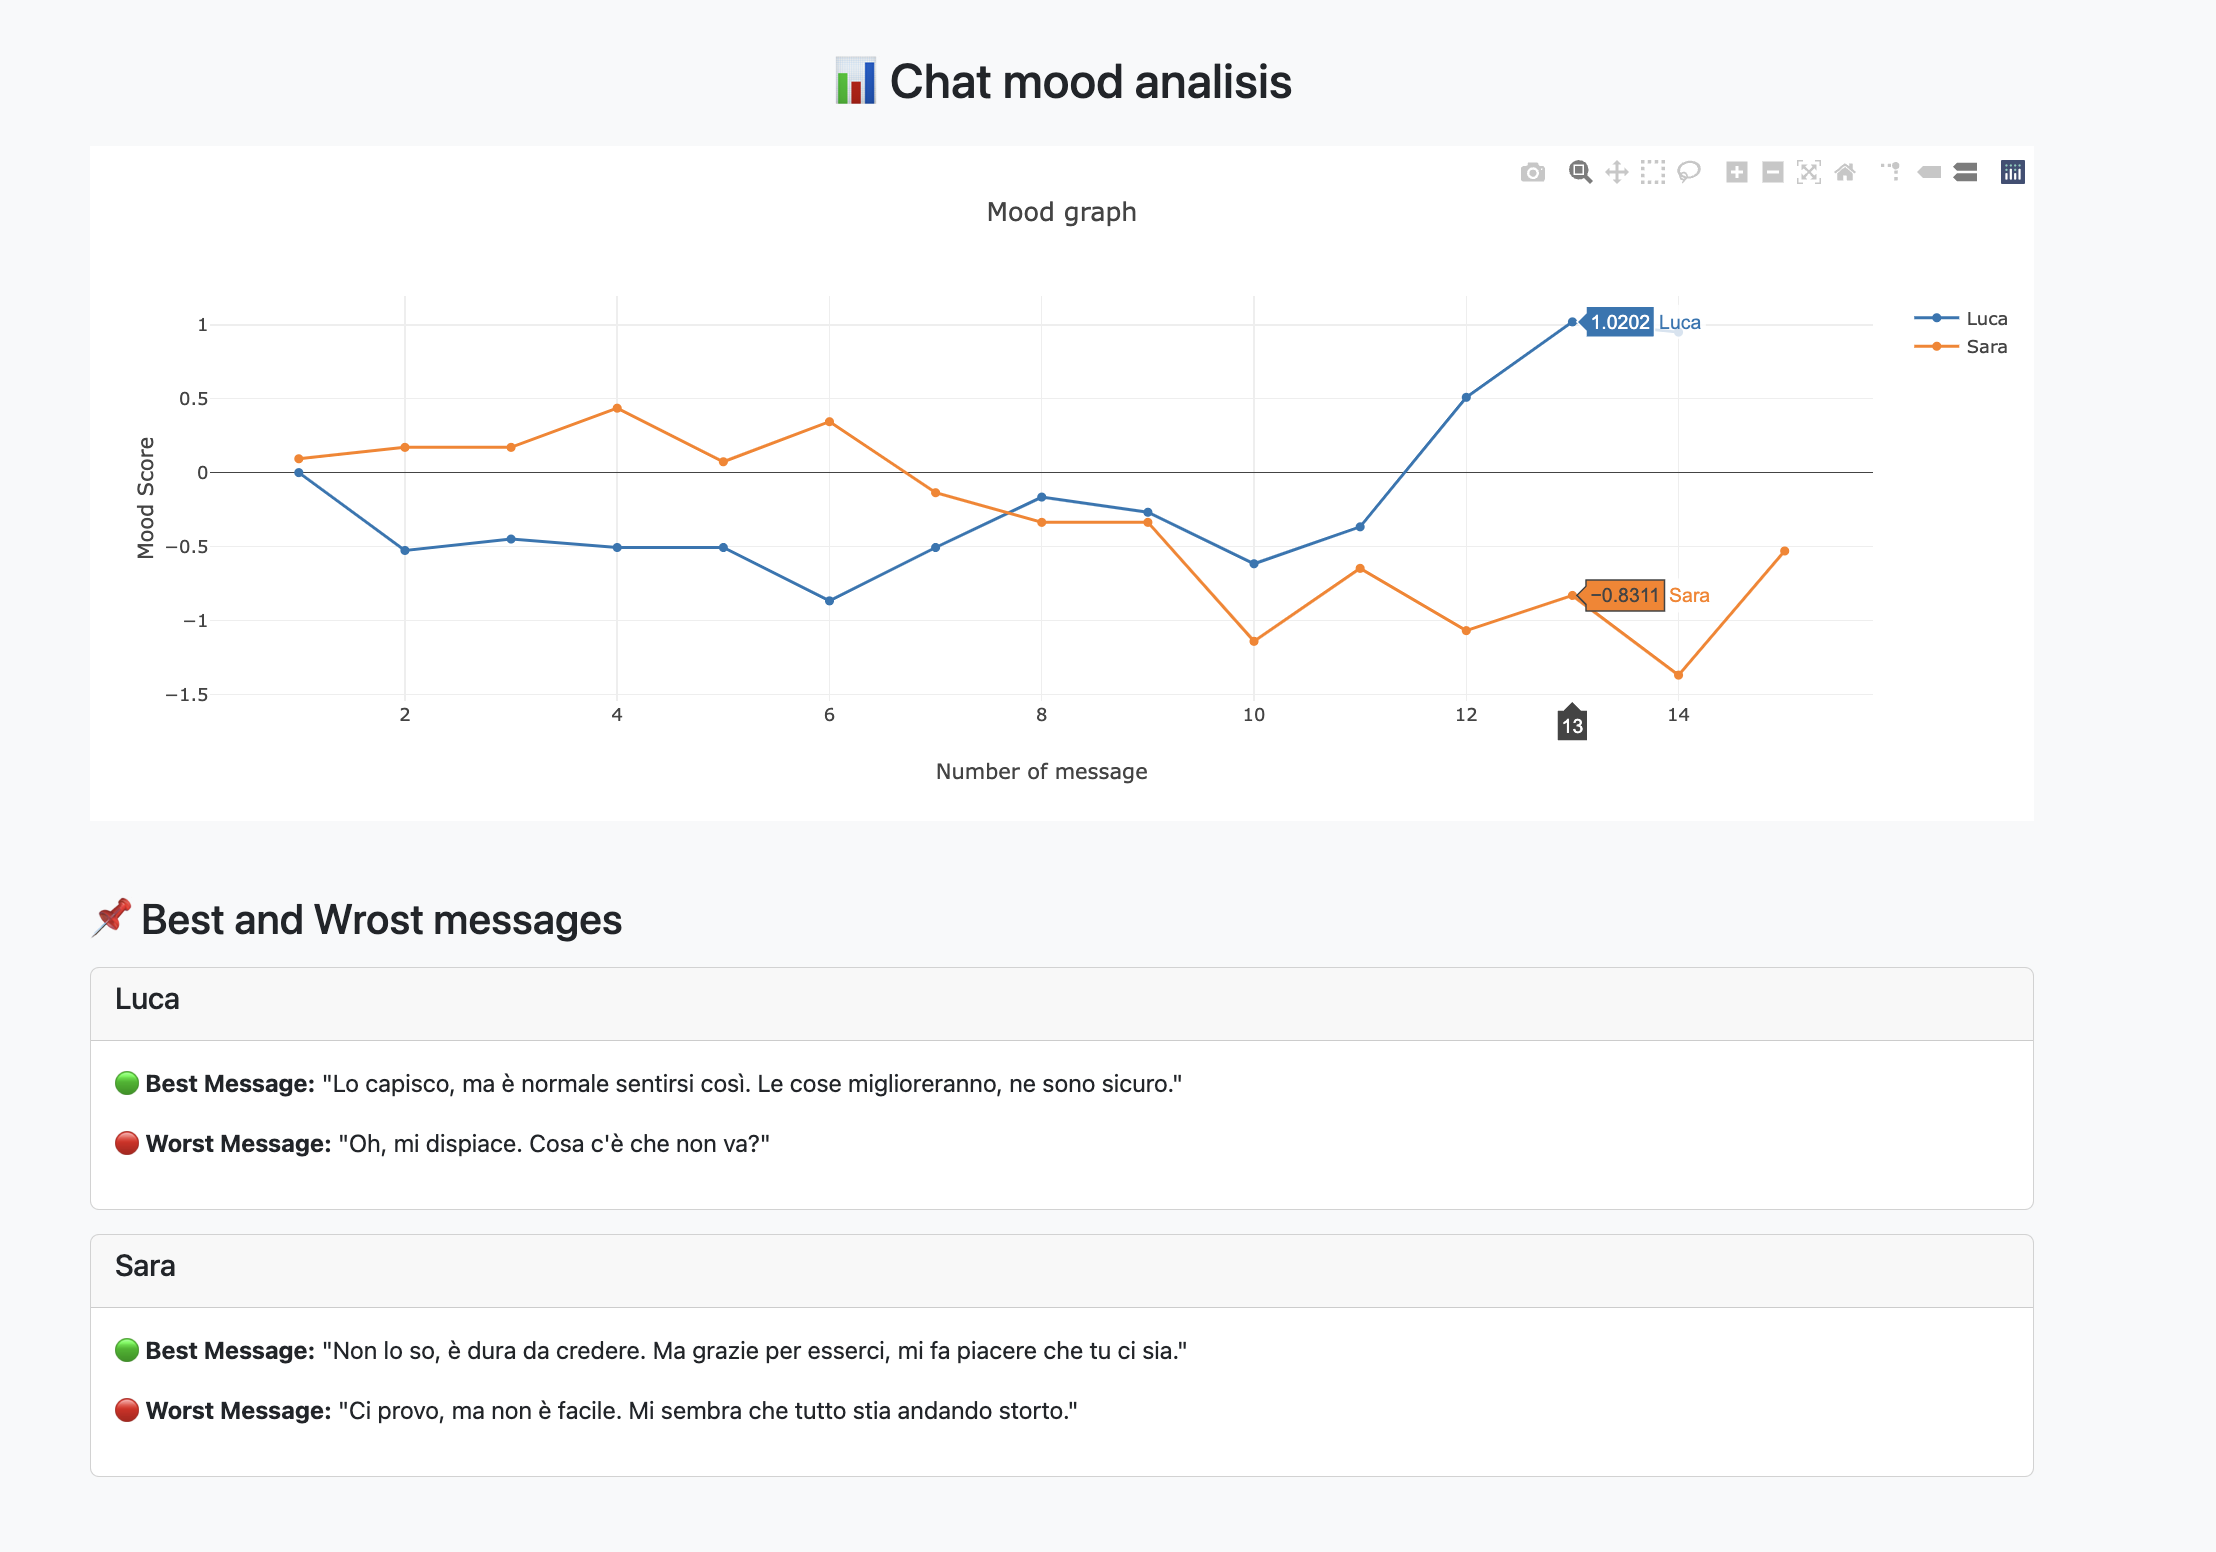
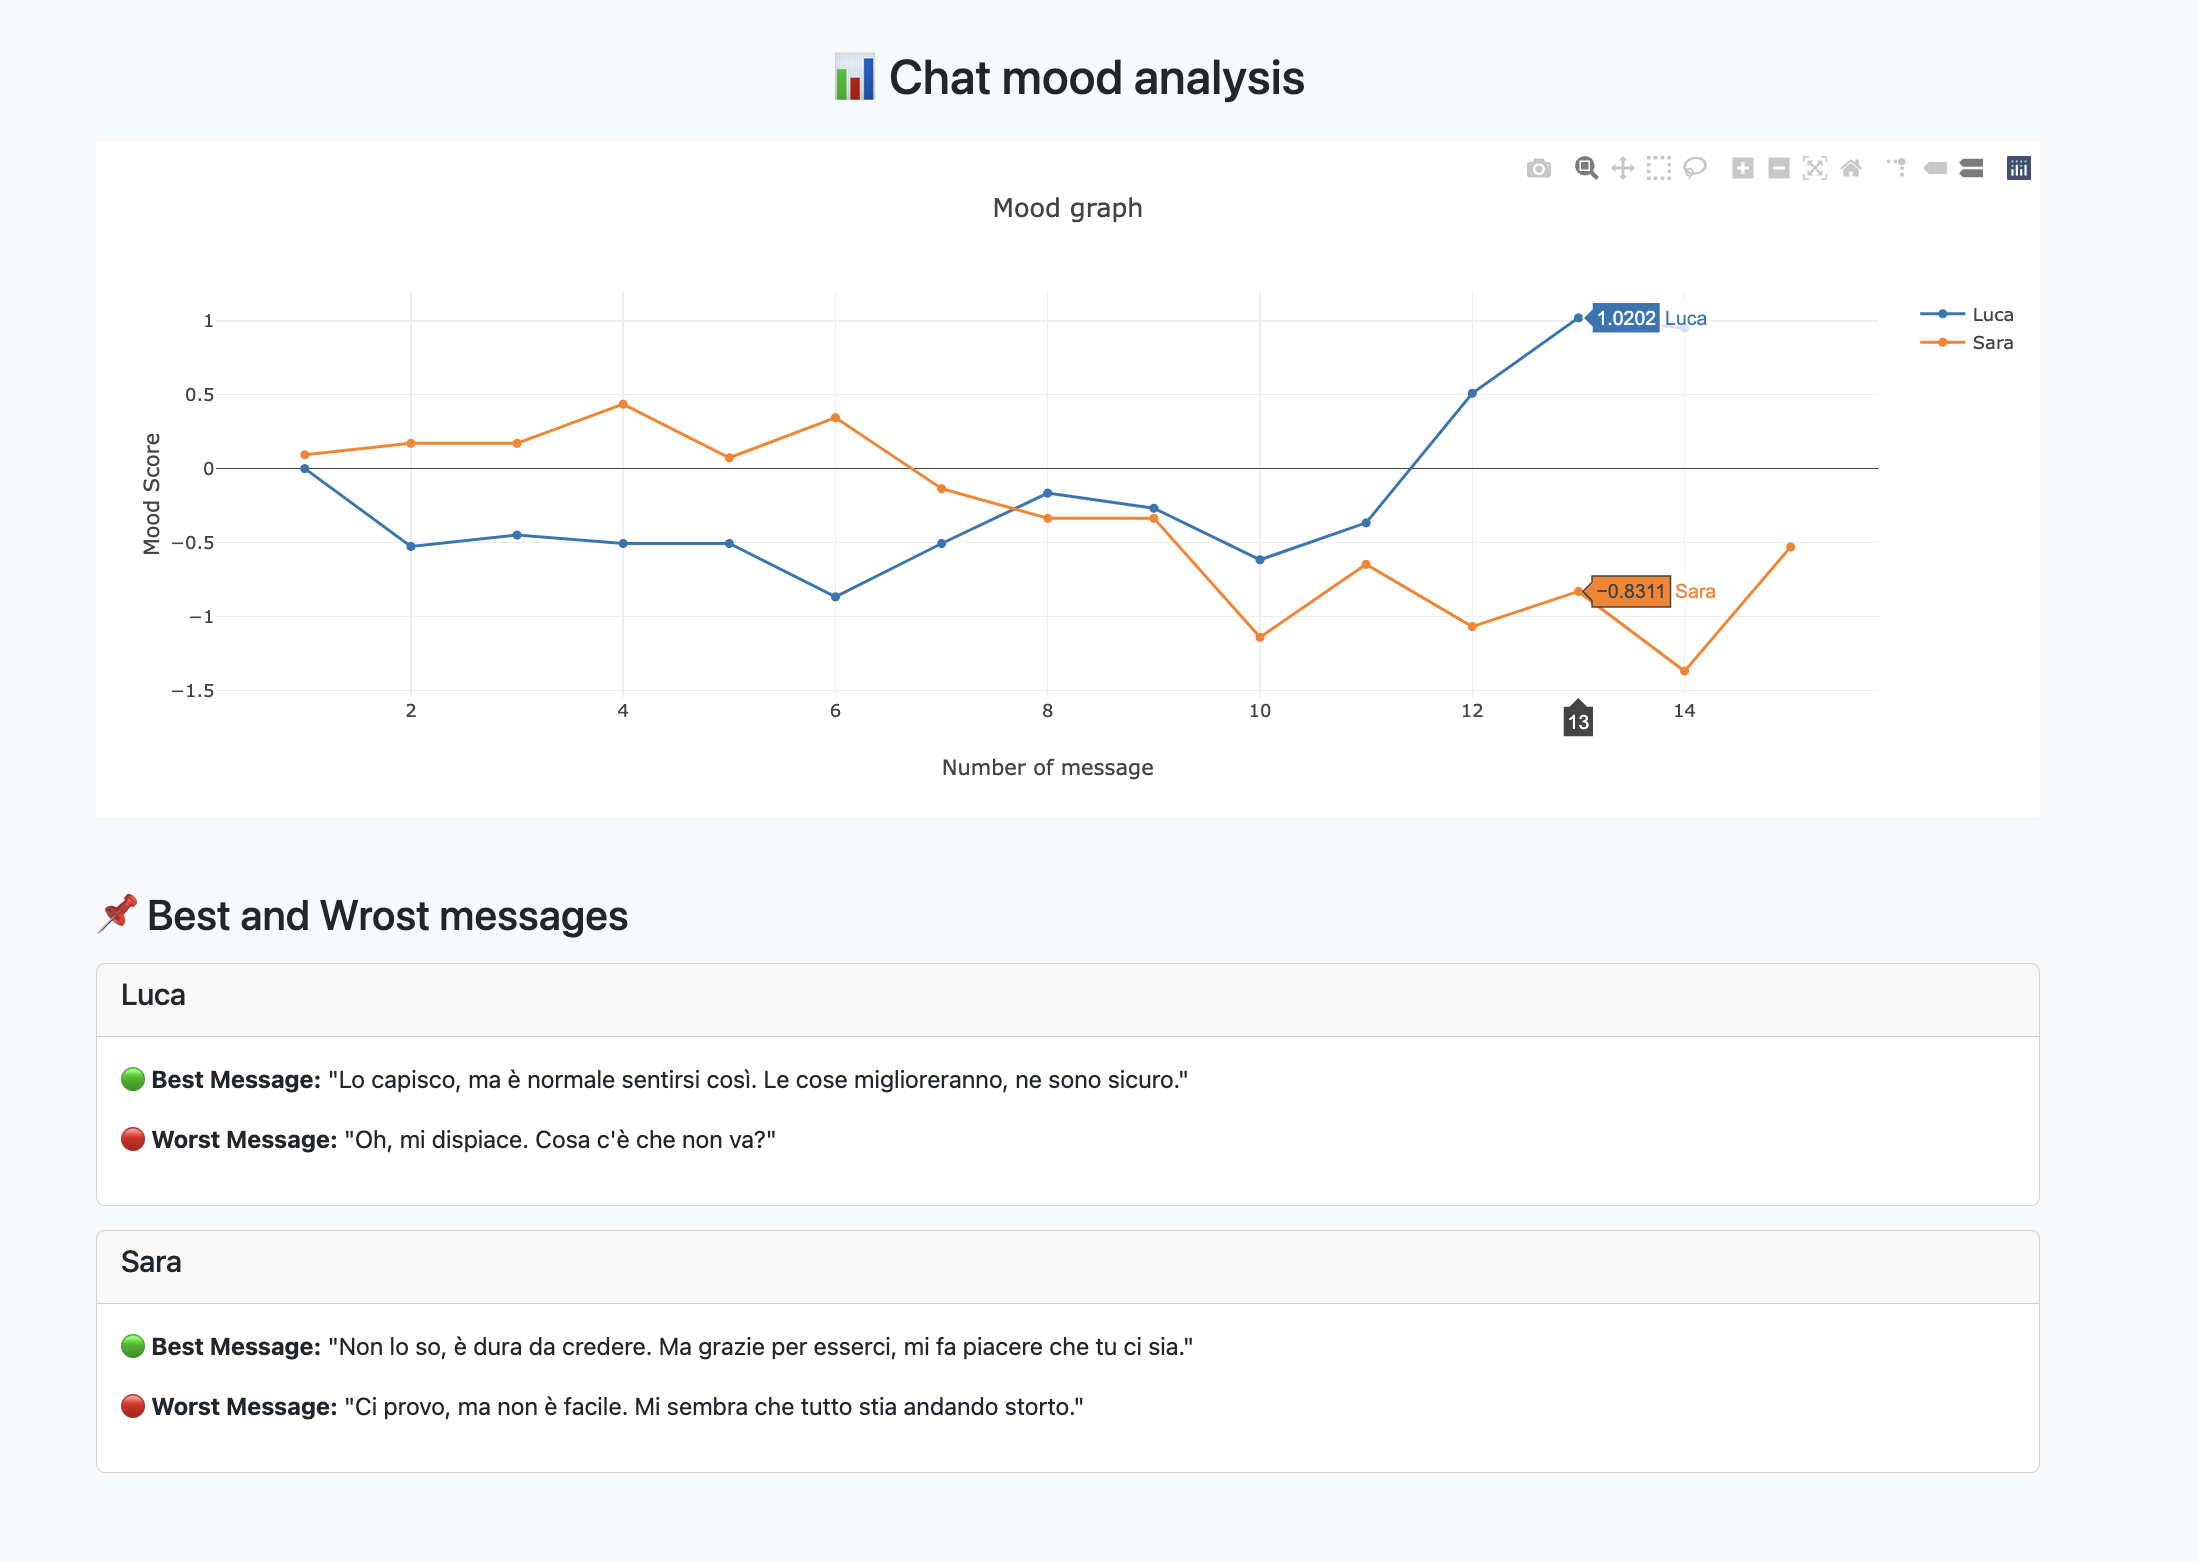
upload image

diff --git a/templates/index.html b/templates/index.html
@@ -3,13 +3,13 @@
 <head>
     <meta charset="UTF-8">
     <meta name="viewport" content="width=device-width, initial-scale=1.0">
-    <title>Analisi Mood Chat</title>
+    <title>📊 Chat mood analysis</title>
     <script src="https://cdn.plot.ly/plotly-latest.min.js"></script>
     <link rel="stylesheet" href="https://cdn.jsdelivr.net/npm/bootstrap@5.3.0/dist/css/bootstrap.min.css">
 </head>
 <body class="bg-light">
     <div class="container my-5">
-        <h2 class="text-center">📊 Chat mood analisis</h2>
+        <h2 class="text-center">📊 Chat mood analysis</h2>
         <div id="mood-graph" class="my-4"></div>
         
         <h3 class="mt-5">📌 Best and Wrost messages</h3>
